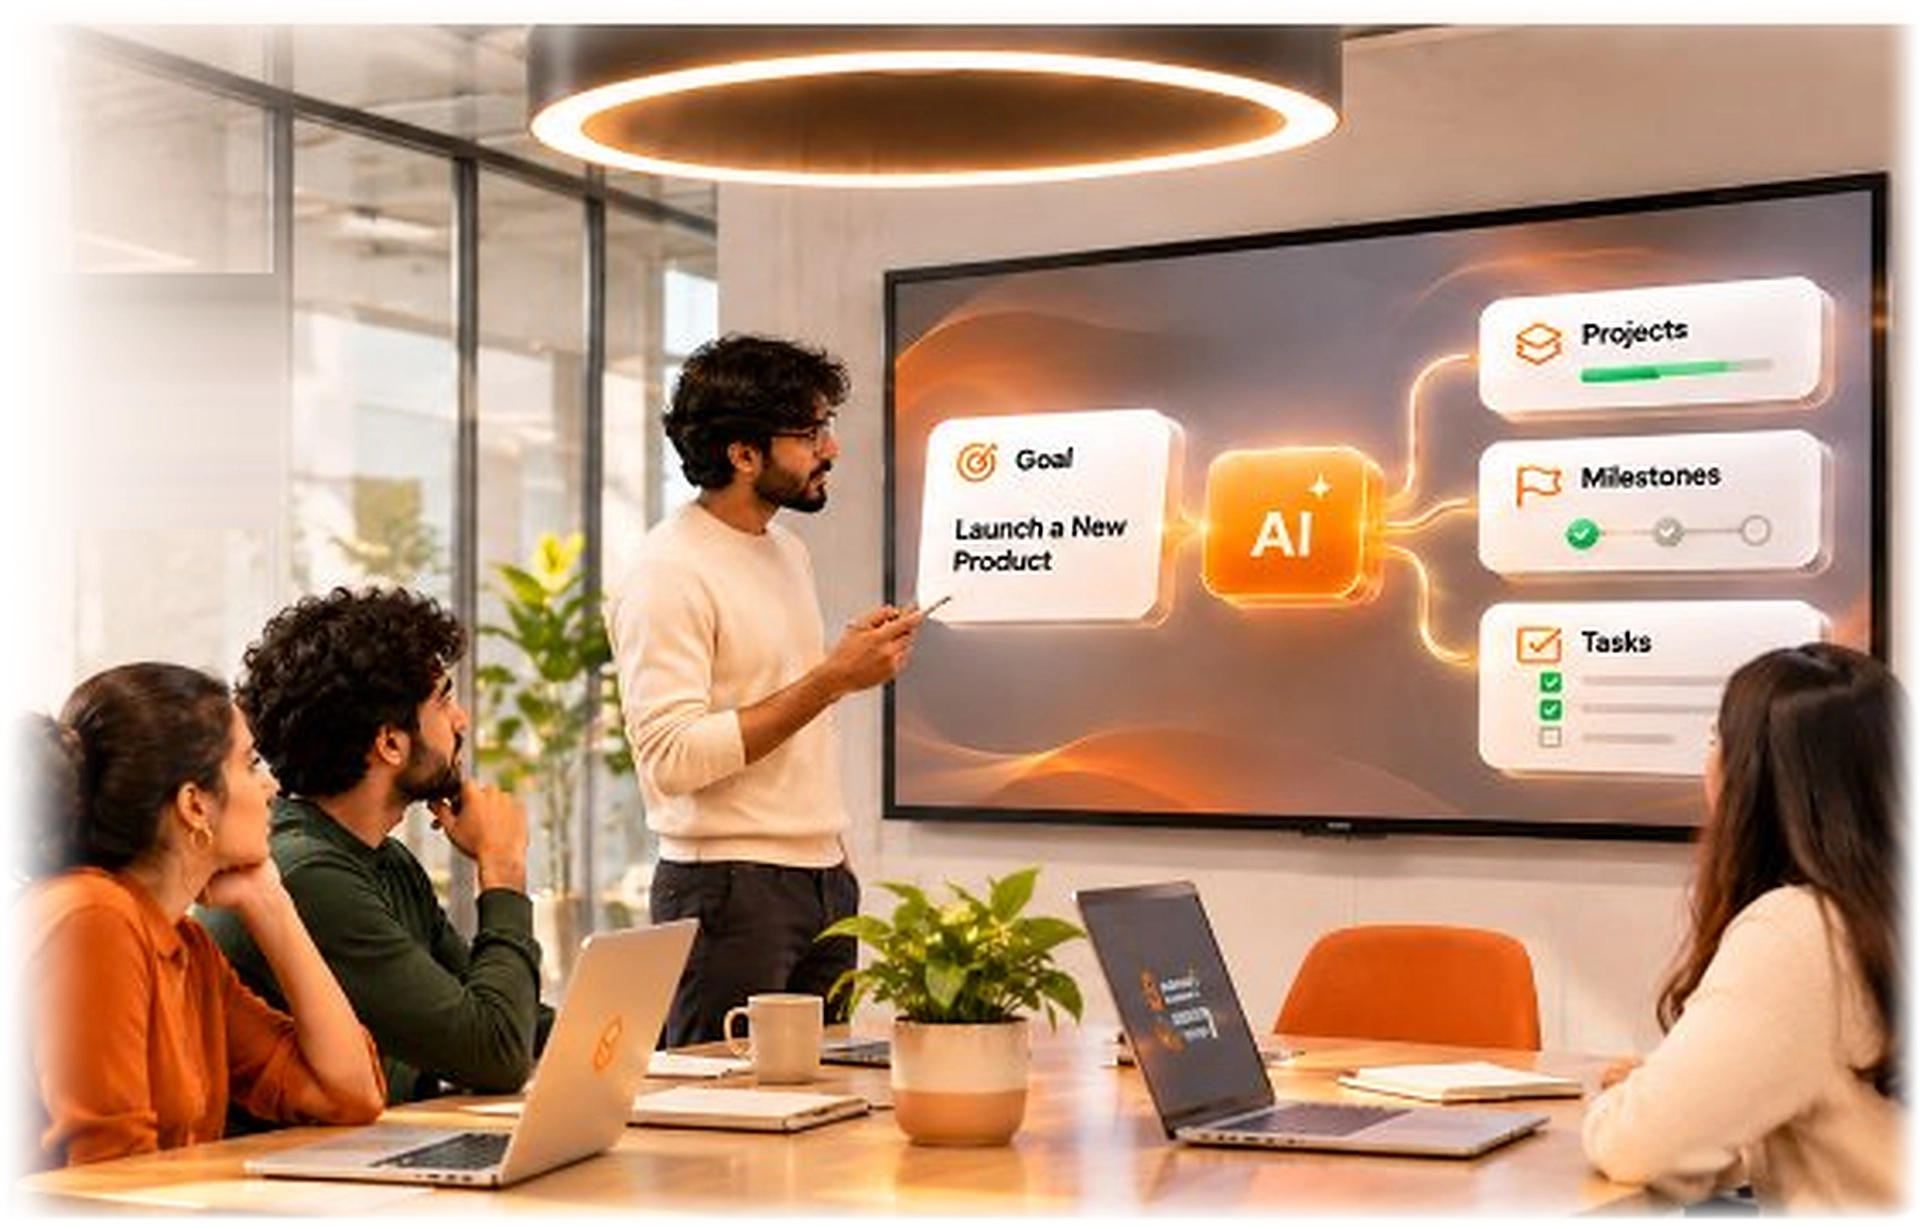
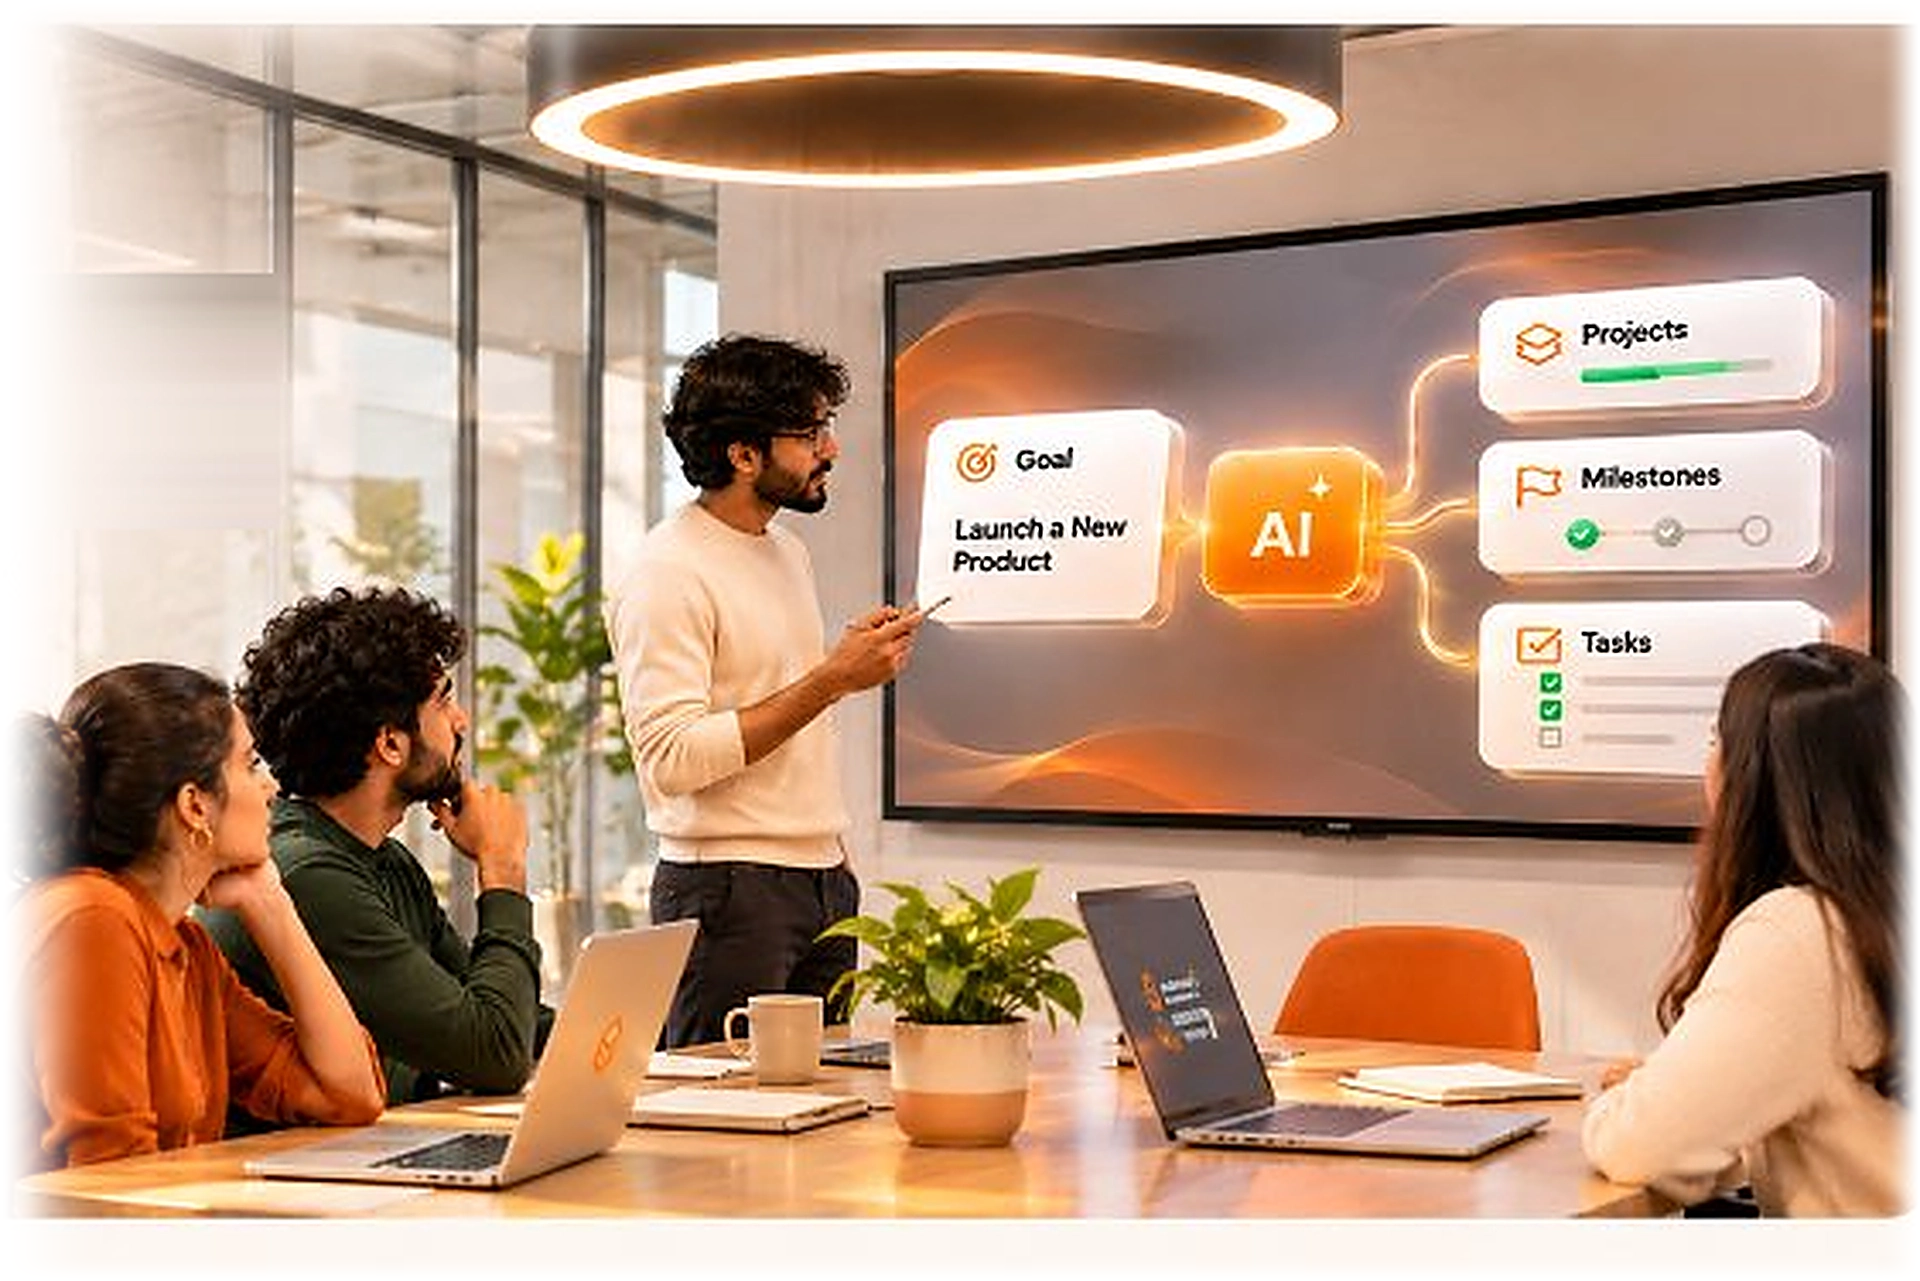
fix(ai-goal): enhance desktop hero image sharpness and expand lower meeting scene by 4%

diff --git a/dist/index.html b/dist/index.html
@@ -85,7 +85,7 @@
       .bg-surface-ambient { background-color: #faf6f0; }
       .text-espresso { color: #271812; }
     </style>
-    <script type="module" crossorigin src="/assets/index-BUlgVgp9.js"></script>
+    <script type="module" crossorigin src="/assets/index-Bf3Ur-Q9.js"></script>
     <link rel="modulepreload" crossorigin href="/assets/react-vendor-Cl8JyyCr.js">
     <link rel="modulepreload" crossorigin href="/assets/icons-vendor-C2AaqwzH.js">
     <link rel="modulepreload" crossorigin href="/assets/motion-vendor-BrqU43Hn.js">

diff --git a/src/pages/marketing/Features/AIIntelligence.tsx b/src/pages/marketing/Features/AIIntelligence.tsx
@@ -64,7 +64,7 @@ export const AIIntelligence: React.FC = () => {
               src="/assets/astrav_ai_goal_decomposition_desktop.png"
               alt="Astrav AI Goal Decomposition - Turn a big goal into a clear, executable plan with AI in modern team collaboration"
               width={1920}
-              height={1229}
+              height={1281}
               fetchPriority="high"
               loading="eager"
               decoding="async"
